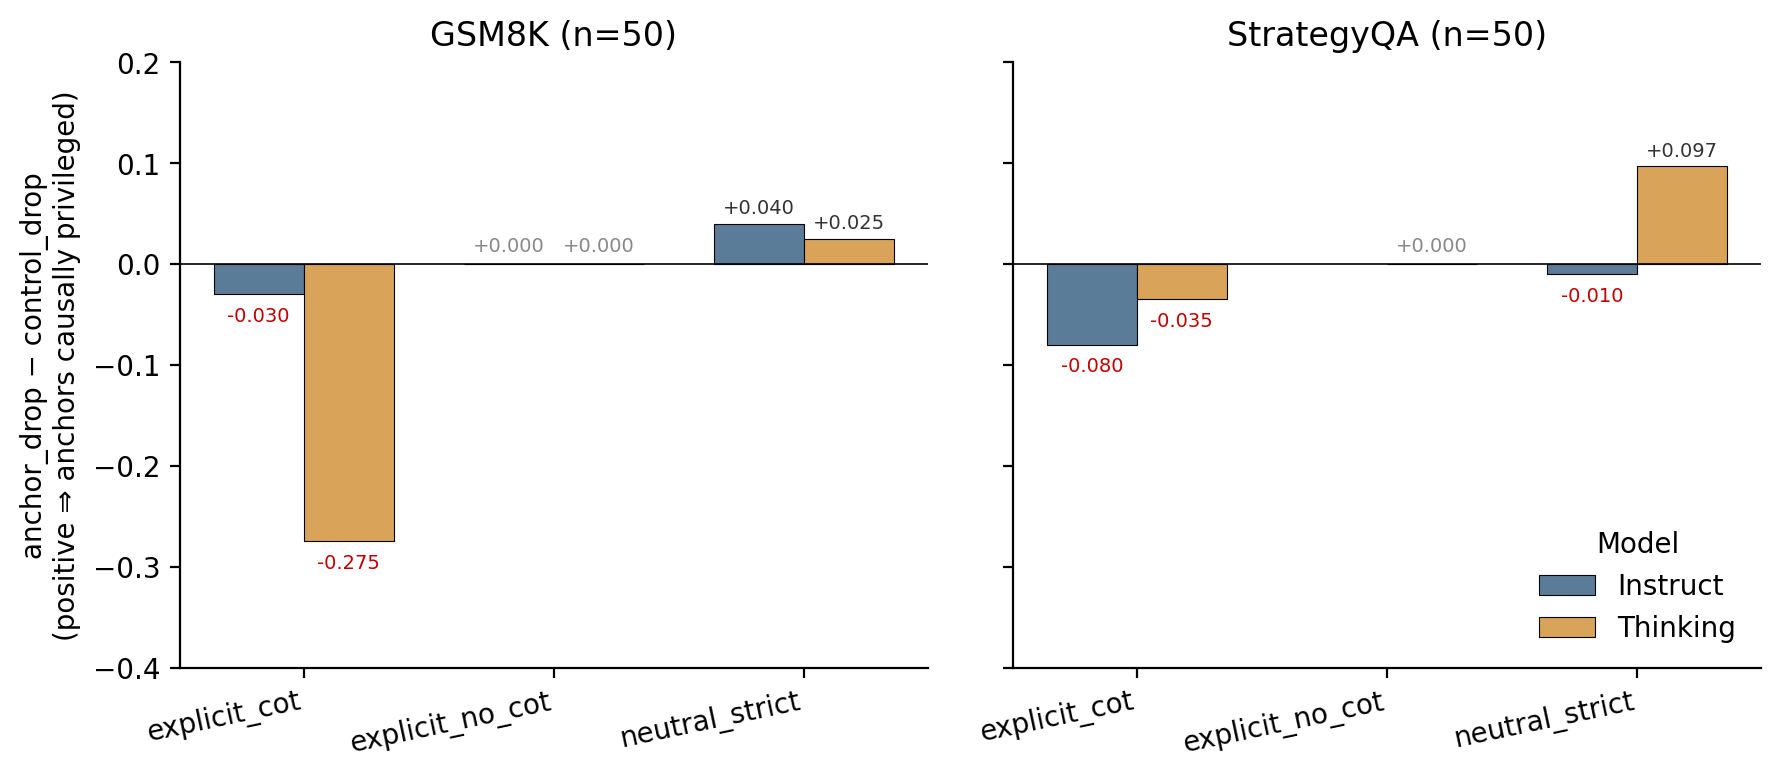
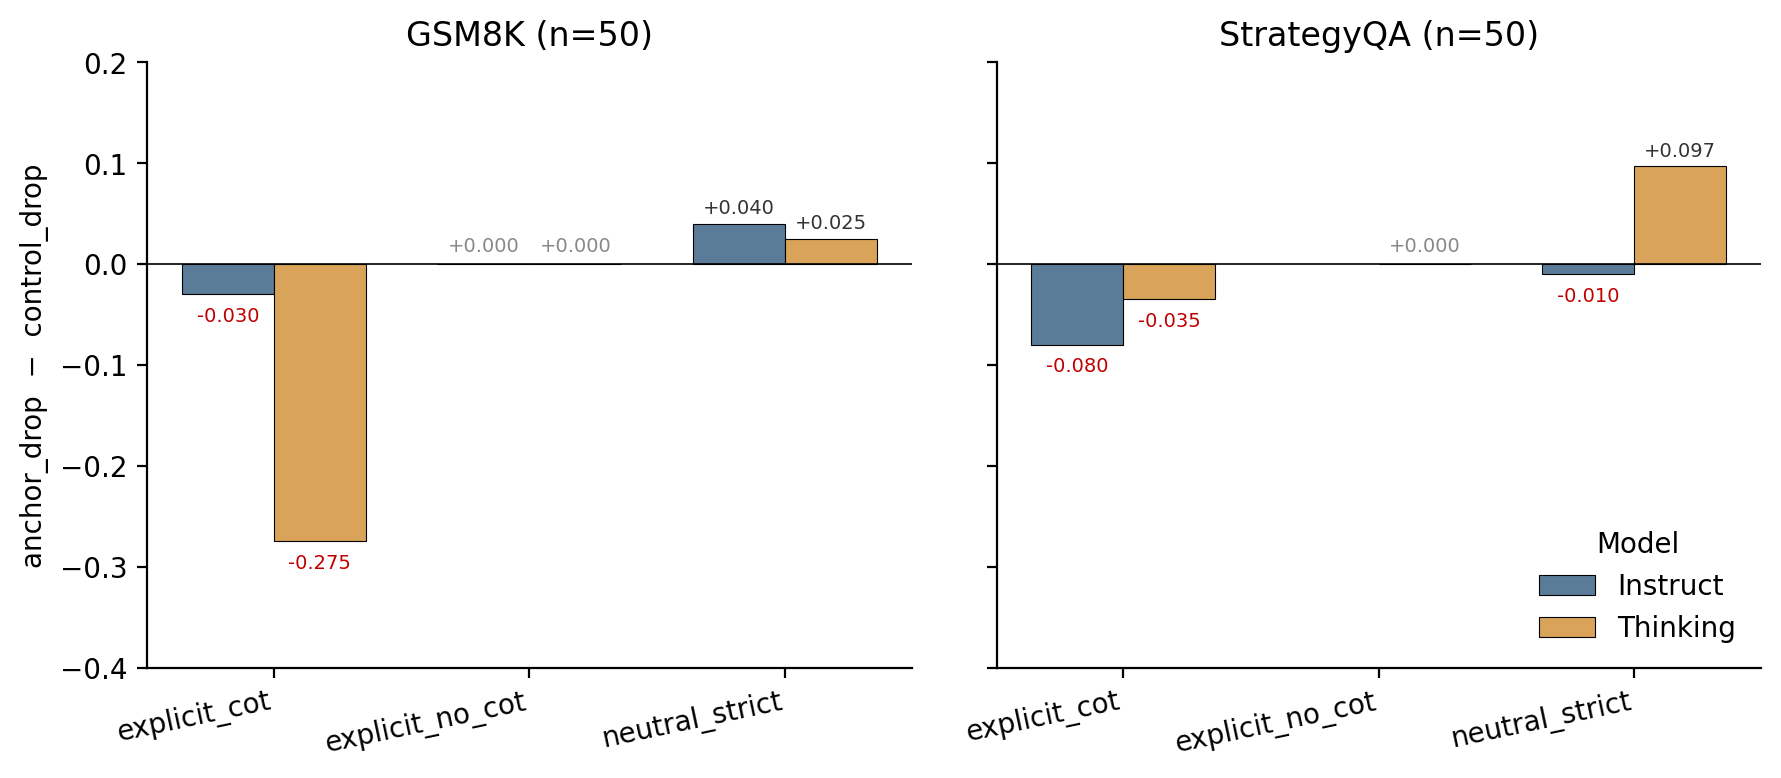
Paper Tier-3 polish: reorder Results, tighten Conclusion
· Results section reordered to put Mechanistic Anchor Analysis
    BEFORE Robustness (per Prism's secondary recommendation and
    handoff Q5). The title promises "linguistic, behavioral, and
    MECHANISTIC indicators"; the most distinctive contribution
    should not be presented third. New order:
       6.1 Cross-Dataset Replication
       6.2 Mechanistic Anchor Analysis
       6.3 Robustness to Feature Choice
    Section labels and figure refs unchanged; only prose reordered.
  · Conclusion rewritten from 3 paragraphs of generic restatement
    down to 2 paragraphs that land on the distinctive mechanistic
    finding. New ending makes explicit the qualitative difference
    between hidden CoT in instruction-tuned vs reasoning-tuned
    models (more deeply integrated, more prompt-invariant, more
    diffuse) and points to specific future-work directions.
  · Anchor terminology unified: "Anchor-perturbation interventions"
    in the intro → "Anchor-suppression interventions" to match the
    Background/abstract phrasing.
  · Discussion: figure-list reordered to match new section ordering
    (cross-dataset → anchor → ablation).
  · fig4 y-axis label tightened from
        "anchor_drop − control_drop \n (positive ⇒ ...)"
    to just
        "anchor_drop − control_drop"
    The interpretation is already in the figure caption — the
    parenthetical was redundant.

diff --git a/main.tex b/main.tex
@@ -134,7 +134,7 @@ Models can plausibly produce forms of reasoning text that do not contribute to t
 
 We reframe latent reasoning detection from a correlational analysis of model outputs into a behavioral identification problem. We propose the Hidden CoT Detection Score (HCDS), which quantifies the extent to which a model's neutral-prompt behavior resembles its explicit reasoning patterns. HCDS is computed by systematically comparing model behavior across explicit CoT, explicit no-CoT, and neutral prompts along three feature families: linguistic signals such as output length, token entropy, and step pattern similarity; behavioral signals such as latency per token, consistency across trials, and error-type clustering; and mechanistic signals from internal activations and attention patterns in open-weight models. The mechanistic signals additionally support targeted interventions that selectively disrupt internal dependencies, allowing us to evaluate whether specific steps causally contribute to the model's output rather than merely accompany it.
 
-We evaluate HCDS on Qwen3-4B (Instruct and Thinking variants) using GSM8K and StrategyQA, comparing each model's behavior across the three prompt conditions. HCDS is significantly positive for both models under neutral prompting on both datasets (GSM8K: +2.254 for Instruct, p = 2.21e-10; +0.479 for Thinking, p = 2.06e-02; StrategyQA: +1.871 for Instruct, p = 3.53e-12; +0.597 for Thinking, p = 2.15e-03), indicating that neutral behavior aligns more closely with explicit CoT than with explicit no-CoT. The Instruct effect is robust across feature-ablation variants and across short, medium, and long questions; the Thinking effect is smaller and length-sensitive, weakening on medium-length questions where reasoning traces approach the generation cap. Anchor-perturbation interventions further reveal that the Thinking model's explicit reasoning chains distribute causal load across many steps rather than concentrating in a few, an unexpected mechanistic finding the rest of the paper develops.
+We evaluate HCDS on Qwen3-4B (Instruct and Thinking variants) using GSM8K and StrategyQA, comparing each model's behavior across the three prompt conditions. HCDS is significantly positive for both models under neutral prompting on both datasets (GSM8K: +2.254 for Instruct, p = 2.21e-10; +0.479 for Thinking, p = 2.06e-02; StrategyQA: +1.871 for Instruct, p = 3.53e-12; +0.597 for Thinking, p = 2.15e-03), indicating that neutral behavior aligns more closely with explicit CoT than with explicit no-CoT. The Instruct effect is robust across feature-ablation variants and across short, medium, and long questions; the Thinking effect is smaller and length-sensitive, weakening on medium-length questions where reasoning traces approach the generation cap. Anchor-suppression interventions further reveal that the Thinking model's explicit reasoning chains distribute causal load across many steps rather than concentrating in a few, an unexpected mechanistic finding the rest of the paper develops.
 
 
 \section{Related Work}
@@ -261,22 +261,6 @@ using per-question scores, bootstrap confidence intervals, and question-level si
 
 Figure~\ref{fig:cross-dataset} shows that the central HCDS result replicates across GSM8K and StrategyQA and strengthens further when GSM8K is scaled from $n=50$ to $n=500$. HCDS is significantly positive ($p < 0.05$) for both Qwen3-4B variants on both datasets and at both scales; the strongest evidence is the GSM8K $n=500$ extension, where the Instruct model reaches $\overline{\mathrm{HCDS}} = +2.375$ with $p \approx 2 \times 10^{-141}$ (Eq.~\ref{eq:hcds-mean}). The Thinking signal is smaller in magnitude but consistently positive across all four (model, dataset) combinations. The consistent positive sign indicates that hidden-CoT detection is not captured by answer accuracy alone, but by the joint behavioral and mechanistic profile induced by the three prompt conditions.
 
-\subsection{Robustness to Feature Choice}
-
-\begin{figure}[t]
-  \centering
-  \includegraphics[width=\columnwidth]{figures/fig2_robustness_ablation.pdf}
-  \caption{\textbf{Feature-ablation robustness.} HCDS holds across
-  seven of eight feature subsets on GSM8K $n{=}50$. The single
-  exception is dropping entropy features on the Thinking model
-  (HCDS $= +0.09$, $p = 0.62$, marked with $\times$), which we
-  report transparently as evidence that token-level entropy is the
-  load-bearing feature for the Thinking signal.}
-  \label{fig:ablation}
-\end{figure}
-
-Figure~\ref{fig:ablation} demonstrates that the signal is robust to feature choice for Instruct and remains positive for Thinking across all but one ablation. The one transparent failure case is the Thinking model with entropy removed ($\mathrm{HCDS}=+0.09$, $p=0.62$), which indicates that token-level entropy is the load-bearing feature for its weaker signal rather than a dispensable auxiliary statistic. A separate length-matched check (Table~\ref{tab:length-matched} in Appendix~\ref{app:length-matched}) further shows that Instruct remains positive across short, medium, and long outputs, whereas Thinking is clearly positive only on short outputs and becomes ambiguous on the cap-affected medium tier. Together, these controls show that HCDS is not explained by raw verbosity alone, while also making clear that the Thinking effect is more fragile than the Instruct effect.
-
 \subsection{Mechanistic Anchor Analysis}
 
 \begin{figure*}[t]
@@ -295,10 +279,26 @@ Figure~\ref{fig:ablation} demonstrates that the signal is robust to feature choi
 
 Anchor interventions provide a mechanistic check on the behavioral score. Figure~\ref{fig:anchor} plots anchor-minus-control drops across prompt conditions on both datasets. Positive anchor-control contrasts indicate that identified anchors carry privileged causal load, which is the dominant pattern for Instruct. The notable exception is the Thinking model under \texttt{explicit\_cot} on GSM8K, where the anchor-control contrast is $-0.275$. Rather than undermining the hidden-CoT interpretation, this negative bar suggests that long reasoning chains in the Thinking model distribute causal dependence across many steps instead of concentrating it in a few dominant anchors.
 
+\subsection{Robustness to Feature Choice}
+
+\begin{figure}[t]
+  \centering
+  \includegraphics[width=\columnwidth]{figures/fig2_robustness_ablation.pdf}
+  \caption{\textbf{Feature-ablation robustness.} HCDS holds across
+  seven of eight feature subsets on GSM8K $n{=}50$. The single
+  exception is dropping entropy features on the Thinking model
+  (HCDS $= +0.09$, $p = 0.62$, marked with $\times$), which we
+  report transparently as evidence that token-level entropy is the
+  load-bearing feature for the Thinking signal.}
+  \label{fig:ablation}
+\end{figure}
+
+Figure~\ref{fig:ablation} demonstrates that the signal is robust to feature choice for Instruct and remains positive for Thinking across all but one ablation. The one transparent failure case is the Thinking model with entropy removed ($\mathrm{HCDS}=+0.09$, $p=0.62$), which indicates that token-level entropy is the load-bearing feature for its weaker signal rather than a dispensable auxiliary statistic. A separate length-matched check (Table~\ref{tab:length-matched} in Appendix~\ref{app:length-matched}) further shows that Instruct remains positive across short, medium, and long outputs, whereas Thinking is clearly positive only on short outputs and becomes ambiguous on the cap-affected medium tier. Together, these controls show that HCDS is not explained by raw verbosity alone, while also making clear that the Thinking effect is more fragile than the Instruct effect.
+
 \section{Discussion}
 \label{sec:discussion}
 
-These findings support the central claim of the paper: hidden reasoning is better detected through comparative behavioral and mechanistic signatures than through surface-level explanations alone. The cross-dataset replication in Figure~\ref{fig:cross-dataset}, the feature-ablation results in Figure~\ref{fig:ablation}, and the mechanistic contrast in Figure~\ref{fig:anchor} all point in the same direction: neutral-prompt behavior more often resembles overt reasoning than direct-answer generation, and this conclusion survives several obvious alternative explanations.
+These findings support the central claim of the paper: hidden reasoning is better detected through comparative behavioral and mechanistic signatures than through surface-level explanations alone. The cross-dataset replication in Figure~\ref{fig:cross-dataset}, the mechanistic contrast in Figure~\ref{fig:anchor}, and the feature-ablation results in Figure~\ref{fig:ablation} all point in the same direction: neutral-prompt behavior more often resembles overt reasoning than direct-answer generation, and this conclusion survives several obvious alternative explanations.
 
 The model comparison is especially informative. Instruct more nearly obeys \texttt{explicit\_no\_cot} and approaches an answer-only regime, while Thinking continues to emit long reasoning traces even when explicitly told not to, with mean and median no-CoT output lengths of 574.88 and 490.5 tokens, respectively. That makes the no-CoT pole less clean for Thinking, but it is also substantively informative: the model's reasoning behavior appears more deeply integrated and less prompt-conditional. Read together with the diffuse anchor pattern in Figure~\ref{fig:anchor}, the most plausible interpretation is that Thinking relies on hidden reasoning in a more distributed form than Instruct.
 
@@ -310,11 +310,9 @@ A second limitation is that the perturbation and control suite remains narrower 
 
 \section{Conclusion}
 
-This work addresses an important limitation in current research on large language models: the lack of reliable methods for determining whether a model is actually performing multi-step reasoning internally, even when it does not explicitly show its reasoning steps. Existing approaches often rely on written explanations, but these explanations do not always reflect the model’s true reasoning process. As a result, it has remained difficult to distinguish genuine internal reasoning from surface-level pattern matching.
+We introduced HCDS, a comparative detection score for hidden chain-of-thought reasoning that combines linguistic, behavioral, and mechanistic indicators rather than relying on the faithfulness of any explicit explanation. Rather than asking whether a model's visible reasoning is causally responsible for its answer, HCDS asks whether the model's neutral-prompt behavior is closer to its overt-CoT behavior or to its overt no-CoT behavior in a six-feature joint space. On Qwen3-4B Instruct and Thinking, HCDS was significantly positive on both GSM8K and StrategyQA, with the strongest evidence on the GSM8K $n=500$ extension ($p \approx 2 \times 10^{-141}$).
 
-To address this problem, this paper introduced a framework that combines linguistic, behavioral, and mechanistic indicators to detect implicit chain-of-thought reasoning. By measuring factors such as response latency, token-level entropy, consistency across paraphrased inputs, and sensitivity to structured perturbations and interventions, the framework tests whether a model’s behavior depends on intermediate reasoning steps. The Hidden CoT Detection Score provides a quantitative way to compare neutral-prompt behavior against explicit reasoning and answer-only conditions, allowing hidden reasoning to be studied without requiring the model to reveal its full chain of thought.
-
-Overall, this work provides a more systematic and evidence-based method for studying internal reasoning in language models. This is important for improving interpretability, evaluating reasoning ability more accurately, and better understanding how modern AI systems arrive at their answers. Future work can extend this framework to broader model families, richer diagnostic benchmarks, and more diverse reasoning tasks in order to strengthen its generality and deepen our understanding of latent reasoning in large language models.
+The most distinctive finding is mechanistic. The reasoning-tuned Thinking model exhibits a \emph{negative} anchor-control contrast under explicit CoT (Figure~\ref{fig:anchor}), indicating that its reasoning chains distribute causal load across many steps rather than concentrating it in a few dominant anchors. Combined with Thinking's inability to suppress reasoning even under answer-only instructions, this suggests that hidden chain-of-thought in reasoning-tuned models is qualitatively different from hidden chain-of-thought in instruction-tuned models --- more deeply integrated, more prompt-invariant, and more diffuse. Future work should extend HCDS to additional model families, evaluate it under stochastic decoding, and probe whether the diffuse-causal-load pattern generalizes to other reasoning-trained models.
 
 \section*{Impact Statement}
 

diff --git a/scripts/make_figures.py b/scripts/make_figures.py
@@ -286,7 +286,7 @@ def fig4_anchor_control() -> None:
         ax.set_title(title)
         ax.set_ylim(-0.40, 0.20)
 
-    axes[0].set_ylabel("anchor_drop − control_drop\n(positive ⇒ anchors causally privileged)")
+    axes[0].set_ylabel("anchor_drop  −  control_drop")
     axes[1].legend(loc="lower right", title="Model")
     fig.tight_layout()
     out = OUT / "fig4_anchor_control.pdf"
